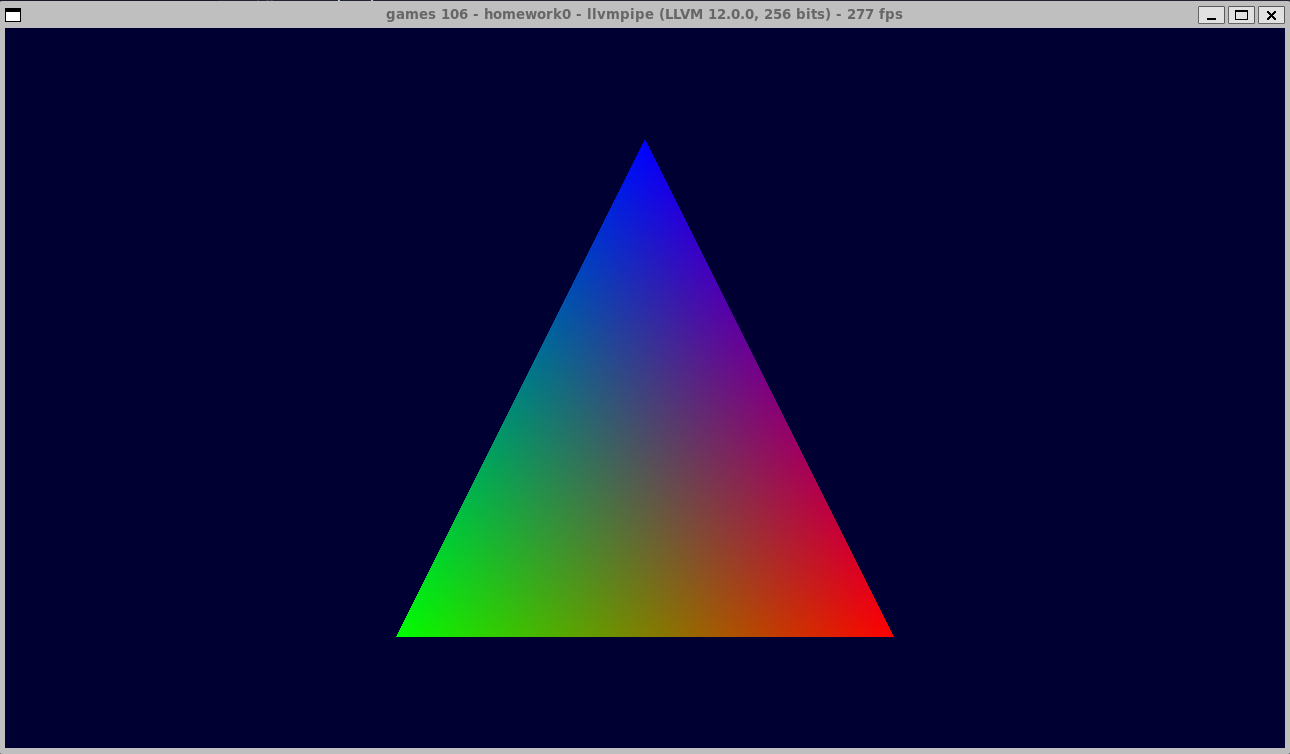
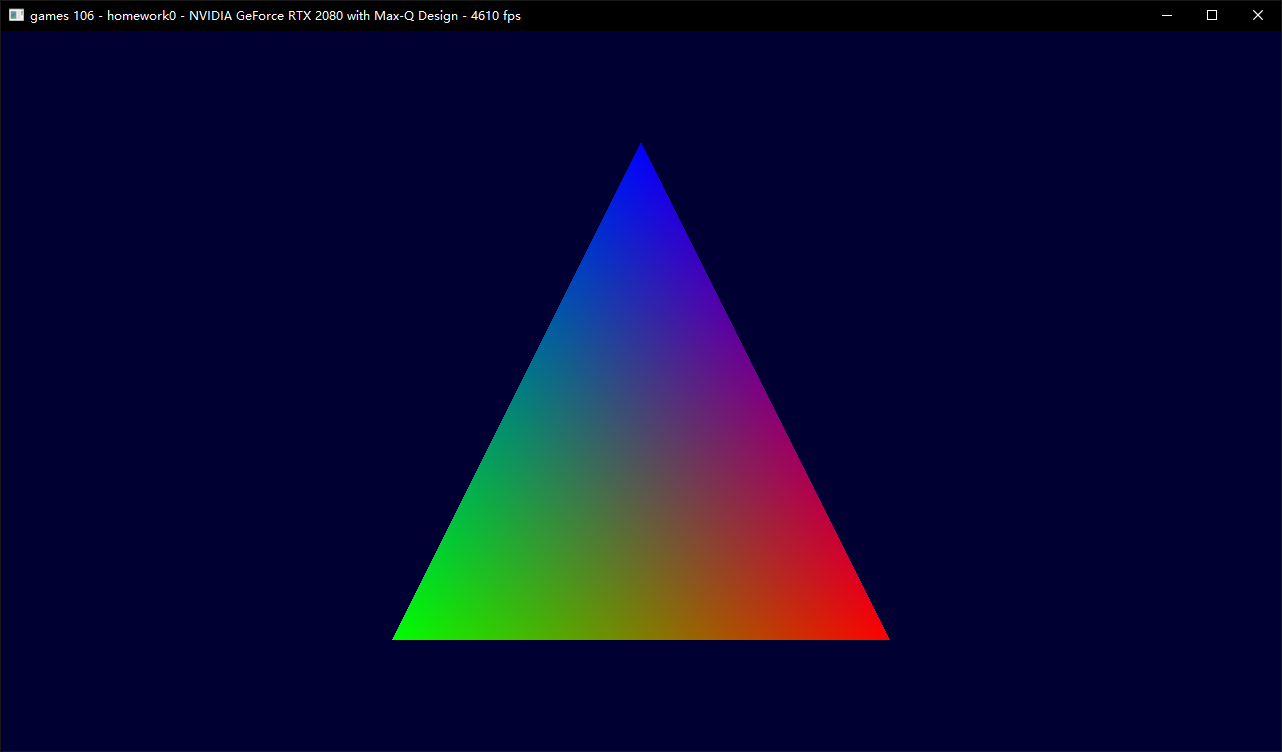
develop

Changed region(s): [[0.0, 0.0, 1.0, 1.0], [0.312, 0.8258, 0.6864, 0.8564]]

diff --git a/source/_posts/GAMES106笔记.md b/source/_posts/GAMES106笔记.md
@@ -29,95 +29,35 @@ GAMES 106的笔记
 
 这个作业已经给了一个写好的框架，只需要用cmake build一下就好了。
 
-我用WSL创建了一个linux环境，可以看这一篇[]()。
-
 用github把原来的仓库fork一份之后，clone到本地。
 
 为了保证cmake出来的文件不会造成太多的混淆，我在目录下新建了一个build文件夹来存放cmake构建出来的东西。
 
-```bash
-mkdir build
-cd build
-```
+然后运行`cmake .. -G "MinGW Makefiles"`，这里的`-G "MinGW Makefiles"`是指定cmake出来的东西可以用mingw32-make编译。
 
-cmake的时候会有一些包是缺失的：
+cmake生成好编译文件之后用mingw32-make进行编译：`mingw32-make`
 
-```bash
-# 首先就是cmake自己
-# 装cmake的时候会一起把gcc也装上
-sudo apt install cmake
-
-# g++编译器
-sudo apt install g++
-
-# Could NOT find PkgConfig (missing: PKG_CONFIG_EXECUTABLE)
-sudo apt install pkg-config
-
-# Could NOT find xcb (missing: XCB_INCLUDE_DIR XCB_LIBRARY)
-sudo apt-get install libxcb1-dev
-```
-
-然后cmake就能成功生成Makefile了：
+然后就很高兴地报错了：
 
 ```text
-> cmake ..
--- Using module to find Vulkan
--- Could NOT find Vulkan (missing: Vulkan_INCLUDE_DIR) 
-Using bundled Vulkan library version
--- Found PkgConfig: /usr/bin/pkg-config (found version "0.29.1") 
--- Found xcb: /usr/include  
--- /home/jiong/GAMES/games106/libs/vulkan/libvulkan.so
--- Generating project file for homework in /home/jiong/GAMES/games106/homework/homework0
--- Generating project file for homework in /home/jiong/GAMES/games106/homework/homework1
--- Configuring done
--- Generating done
--- Build files have been written to: /home/jiong/GAMES/games106/build
+games106\base\VulkanDebug.h:23:10: fatal error: glm/glm.hpp: No such file or directory
+	#include <glm/glm.hpp>
 ```
 
-然后用Makefile编译，但是还是缺少一个依赖库：
+打开项目根目录下的Cmakelist.txt看了下：`include_directories(external/glm)`，这说明glm应该是被放在`games106/external/glm`这个目录下，但是这个目录是空的。
 
-```bash
-# fatal error: glm/glm.hpp: No such file or directory
-sudo apt-get install libglm-dev
-```
+去GLM官网下好这个包，解压之后按照报错的头文件位置解压进去就好了。
 
-这个时候就已经能make成功了：
-
-~~(助教已经把下一个homework一起传上来了，他真的，我哭死 2023.04.07)~~
+还有一个错：
 
 ```text
-> make
-[  3%] Building CXX object base/CMakeFiles/base.dir/VulkanDebug.cpp.o
-[  7%] Building CXX object base/CMakeFiles/base.dir/VulkanDevice.cpp.o
-[ 11%] Building CXX object base/CMakeFiles/base.dir/VulkanRaytracingSample.cpp.o
-[ 15%] Building CXX object base/CMakeFiles/base.dir/VulkanSwapChain.cpp.o
-[ 19%] Building CXX object base/CMakeFiles/base.dir/VulkanTexture.cpp.o
-[ 23%] Building CXX object base/CMakeFiles/base.dir/VulkanTools.cpp.o
-[ 26%] Building CXX object base/CMakeFiles/base.dir/VulkanUIOverlay.cpp.o
-[ 30%] Building CXX object base/CMakeFiles/base.dir/VulkanglTFModel.cpp.o
-[ 34%] Building CXX object base/CMakeFiles/base.dir/vulkanexamplebase.cpp.o
-[ 38%] Building C object base/CMakeFiles/base.dir/__/external/ktx/lib/texture.c.o
-[ 42%] Building C object base/CMakeFiles/base.dir/__/external/ktx/lib/hashlist.c.o
-[ 46%] Building C object base/CMakeFiles/base.dir/__/external/ktx/lib/checkheader.c.o
-[ 50%] Building C object base/CMakeFiles/base.dir/__/external/ktx/lib/swap.c.o
-[ 53%] Building C object base/CMakeFiles/base.dir/__/external/ktx/lib/memstream.c.o
-[ 57%] Building C object base/CMakeFiles/base.dir/__/external/ktx/lib/filestream.c.o
-[ 61%] Linking CXX static library libbase.a
-[ 84%] Built target base
-Scanning dependencies of target homework1
-[ 88%] Building CXX object homework/CMakeFiles/homework1.dir/homework1/homework1.cpp.o
-[ 92%] Linking CXX executable ../bin/homework1
-[ 92%] Built target homework1
-Scanning dependencies of target homework0
-[ 96%] Building CXX object homework/CMakeFiles/homework0.dir/homework0/homework0.cpp.o
-[100%] Linking CXX executable ../bin/homework0
-[100%] Built target homework0
+games106\base\vulkanexamplebase.h:16:10: fatal error: ShellScalingAPI.h: No such file or directory
+	#include <ShellScalingAPI.h>
 ```
+这个错误是mingw-w64版本太低导致的，我从`8.1.0`升级到`12.1.0`之后就好了。
 
-然后直接找到编译出来的可执行文件运行就好了：
+编译好之后就好了，生成的可执行程序在新建的build目录下的bin目录里面。
 
-```bash
-./bin/homework0
-```
+~~（4610帧属实有点6）~~
 
 ![](/img/article/GAMES106笔记/homework0_final.png)
